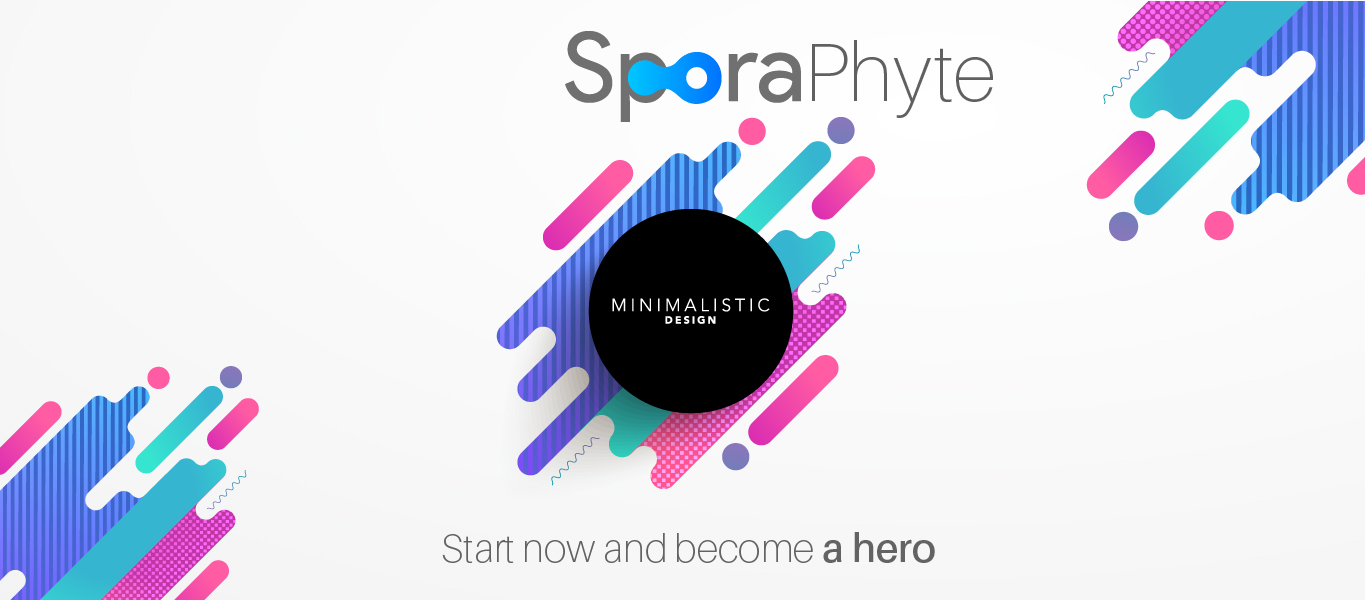
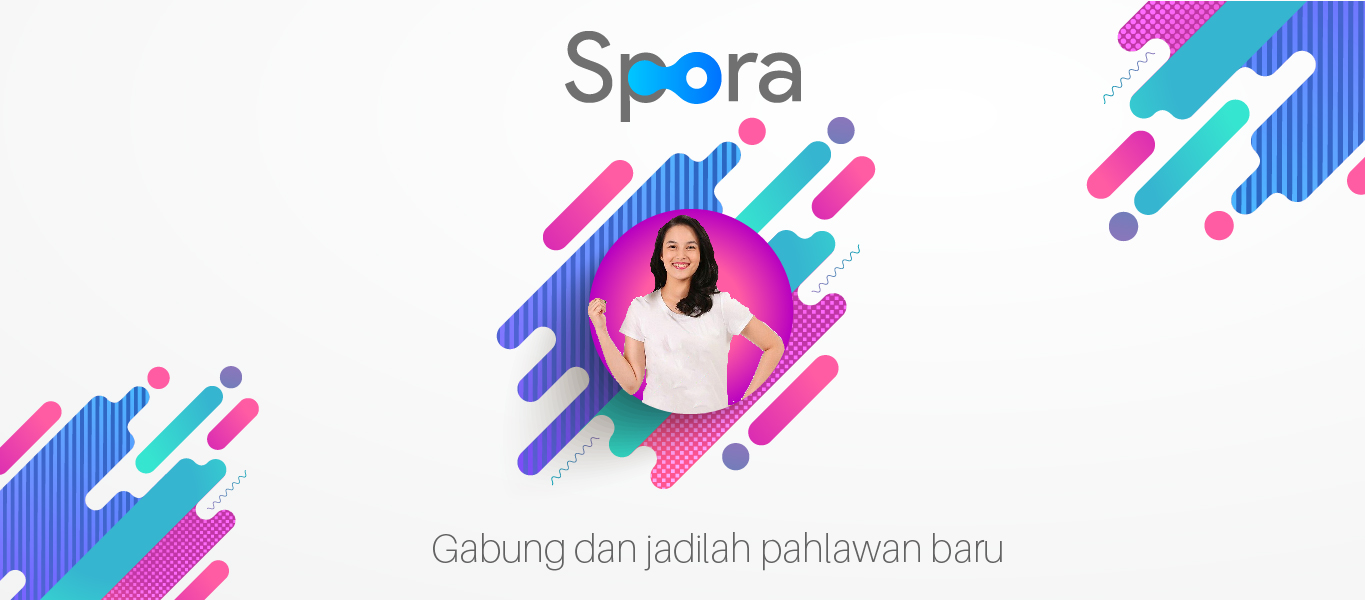
Relawan Page Look done

diff --git a/apz/views/dashboard/user/main.php b/apz/views/dashboard/user/main.php
@@ -6,13 +6,13 @@
 <meta http-equiv="X-UA-Compatible" content="IE=edge">
 <meta name="description" content="Colo Shop Template">
 <meta name="viewport" content="width=device-width, initial-scale=1">
-<link rel="stylesheet" type="text/css" href="<?= base_url() ?>assets/css/coloshop/bootstrap4/bootstrap.min.css">
-<link href="<?= base_url() ?>assets/plugins/font-awesome-4.7.0/css/font-awesome.min.css" rel="stylesheet" type="text/css">
-<link rel="stylesheet" type="text/css" href="<?= base_url() ?>assets/plugins/OwlCarousel2-2.2.1/owl.carousel.css">
-<link rel="stylesheet" type="text/css" href="<?= base_url() ?>assets/plugins/OwlCarousel2-2.2.1/owl.theme.default.css">
-<link rel="stylesheet" type="text/css" href="<?= base_url() ?>assets/plugins/OwlCarousel2-2.2.1/animate.css">
-<link rel="stylesheet" type="text/css" href="<?= base_url() ?>assets/css/coloshop/main_styles.css">
-<link rel="stylesheet" type="text/css" href="<?= base_url() ?>assets/css/coloshop/responsive.css">
+<link rel="stylesheet" type="text/css" href="<?php base_url() ?>assets/css/coloshop/bootstrap4/bootstrap.min.css">
+<link href="<?php base_url() ?>assets/plugins/font-awesome-4.7.0/css/font-awesome.min.css" rel="stylesheet" type="text/css">
+<link rel="stylesheet" type="text/css" href="<?php base_url() ?>assets/plugins/OwlCarousel2-2.2.1/owl.carousel.css">
+<link rel="stylesheet" type="text/css" href="<?php base_url() ?>assets/plugins/OwlCarousel2-2.2.1/owl.theme.default.css">
+<link rel="stylesheet" type="text/css" href="<?php base_url() ?>assets/plugins/OwlCarousel2-2.2.1/animate.css">
+<link rel="stylesheet" type="text/css" href="<?php base_url() ?>assets/css/coloshop/main_styles.css">
+<link rel="stylesheet" type="text/css" href="<?php base_url() ?>assets/css/coloshop/responsive.css">
 </head>
 <body>
 	<div class="super_container">
@@ -23,14 +23,14 @@
 				<div class="row">
 					<div class="col-lg-12 text-right">
 						<div class="logo_container">
-							<img src="<?= base_url();?>assets/img/logo.png" style="">
+							<img src="<?php echo base_url();?>assets/img/logo.png" style="">
 						</div>
 						<nav class="navbar">
 							<ul class="navbar_menu">
-								<li><a href="#">Beranda</a></li>
+								<li><a href="<?= site_url('dashboard'); ?>">Beranda</a></li>
 								<li><a href="#">Toko</a></li>
-								<li><a href="#">Relawan</a></li>
-								<li><a href="contact.html">Tentang</a></li>
+								<li><a href="<?= site_url('proyek'); ?>">Relawan</a></li>
+								<li><a href="#">Tentang</a></li>
 								<li><a href="#"><i class="fa fa-search" aria-hidden="true"></i></a></li>
 								<li class="account">
 									<a href="#"><i class="fa fa-user" style="min-width:30px"></i>&nbsp; Account</a>
@@ -42,7 +42,7 @@
 											<li><a href="<?= site_url('logout'); ?>"><i class="fa fa-sign-out"></i>Keluar</a></li>
 
 										<?php } else { ?>
-										
+
 											<li><a href="<?= site_url('login'); ?>"><i class="fa fa-user-circle"></i>Masuk</a></li>
 											<li><a href="<?= site_url('register'); ?>"><i class="fa fa-sign-out"></i>Daftar</a></li>
 
@@ -70,7 +70,7 @@
 				<li class="menu_item has-children"><a href="#">Akun Saya<i class="fa fa-angle-down"></i></a>
 					<ul class="menu_selection">
 						<?php if($this->session->userdata('login')){ ?>
-							
+
 							<li><a href="<?= site_url('profil'); ?>"><i class="fa fa-user-circle" aria-hidden="true"></i>Profil</a></li>
 							<li><a href="<?= site_url('dashboard'); ?>"><i class="fa fa-dashboard" aria-hidden="true"></i>Dashboard</a></li>
 							<li><a href="<?= site_url('logout'); ?>"><i class="fa fa-sign-out" aria-hidden="true"></i>Keluar</a></li>
@@ -94,14 +94,12 @@
 
 	<!-- Slider -->
 
-	<div class="main_slider" style="background-image:url(<?php echo base_url(); ?>assets/img/carousel1.jpg)">
+	<div class="main_slider" style="background-image:url(<?php echo base_url(); ?>assets/img/carousel1.jpg); margin-top: 50px;">
 		<div class="container fill_height">
 			<div class="row align-items-center fill_height">
 				<div class="col">
 					<div class="main_slider_content">
-						<h6>Spring / Summer Collection 2017</h6>
-						<h1>Get up to 30% Off New Arrivals</h1>
-						<div class="red_button shop_now_button"><a href="#">shop now</a></div>
+
 					</div>
 				</div>
 			</div>
@@ -110,34 +108,6 @@
 
 	<!-- Banner -->
 
-	<div class="banner">
-		<div class="container">
-			<div class="row">
-				<div class="col-md-4">
-					<div class="banner_item align-items-center" style="background-image:url(images/banner_1.jpg)">
-						<div class="banner_category">
-							<a href="categories.html">women's</a>
-						</div>
-					</div>
-				</div>
-				<div class="col-md-4">
-					<div class="banner_item align-items-center" style="background-image:url(images/banner_2.jpg)">
-						<div class="banner_category">
-							<a href="categories.html">accessories's</a>
-						</div>
-					</div>
-				</div>
-				<div class="col-md-4">
-					<div class="banner_item align-items-center" style="background-image:url(images/banner_3.jpg)">
-						<div class="banner_category">
-							<a href="categories.html">men's</a>
-						</div>
-					</div>
-				</div>
-			</div>
-		</div>
-	</div>
-
 	<!-- New Arrivals -->
 
 	<div class="new_arrivals">
@@ -145,7 +115,7 @@
 			<div class="row">
 				<div class="col text-center">
 					<div class="section_title new_arrivals_title">
-						<h2>New Arrivals</h2>
+						<h2>Baru</h2>
 					</div>
 				</div>
 			</div>
@@ -342,7 +312,7 @@
 			<div class="row align-items-center">
 				<div class="col-lg-6">
 					<div class="deal_ofthe_week_img">
-						<img src="<?php echo base_url();?>assets/img/carousel2.jpg" alt="">
+						<img src="<?php echo base_url();?>assets/img/backgroundPromo-01.jpg" alt="">
 					</div>
 				</div>
 				<div class="col-lg-6 text-right deal_ofthe_week_col">
@@ -382,7 +352,7 @@
 			<div class="row">
 				<div class="col text-center">
 					<div class="section_title new_arrivals_title">
-						<h2>Best Sellers</h2>
+						<h2>Penjualan Terlaris</h2>
 					</div>
 				</div>
 			</div>
@@ -590,8 +560,8 @@
 					<div class="benefit_item d-flex flex-row align-items-center">
 						<div class="benefit_icon"><i class="fa fa-truck" aria-hidden="true"></i></div>
 						<div class="benefit_content">
-							<h6>free shipping</h6>
-							<p>Suffered Alteration in Some Form</p>
+							<h6>Bebas biaya pengiriman</h6>
+							<p>Seluruh pengi</p>
 						</div>
 					</div>
 				</div>
@@ -599,8 +569,8 @@
 					<div class="benefit_item d-flex flex-row align-items-center">
 						<div class="benefit_icon"><i class="fa fa-money" aria-hidden="true"></i></div>
 						<div class="benefit_content">
-							<h6>cach on delivery</h6>
-							<p>The Internet Tend To Repeat</p>
+							<h6>Full Diskon</h6>
+							<p>Dapatkan banyak promo dan diskon</p>
 						</div>
 					</div>
 				</div>
@@ -608,8 +578,8 @@
 					<div class="benefit_item d-flex flex-row align-items-center">
 						<div class="benefit_icon"><i class="fa fa-undo" aria-hidden="true"></i></div>
 						<div class="benefit_content">
-							<h6>45 days return</h6>
-							<p>Making it Look Like Readable</p>
+							<h6>Garansi 1 minggu</h6>
+							<p>Apabila barang rusak dapat diganti</p>
 						</div>
 					</div>
 				</div>
@@ -617,7 +587,7 @@
 					<div class="benefit_item d-flex flex-row align-items-center">
 						<div class="benefit_icon"><i class="fa fa-clock-o" aria-hidden="true"></i></div>
 						<div class="benefit_content">
-							<h6>opening all week</h6>
+							<h6>Layanan Setiap Hari</h6>
 							<p>8AM - 09PM</p>
 						</div>
 					</div>
@@ -633,7 +603,7 @@
 			<div class="row">
 				<div class="col text-center">
 					<div class="section_title">
-						<h2>Latest Blogs</h2>
+						<h2>Jadilah Relawan Spora</h2>
 					</div>
 				</div>
 			</div>
@@ -674,26 +644,6 @@
 
 	<!-- Newsletter -->
 
-	<div class="newsletter">
-		<div class="container">
-			<div class="row">
-				<div class="col-lg-6">
-					<div class="newsletter_text d-flex flex-column justify-content-center align-items-lg-start align-items-md-center text-center">
-						<h4>Newsletter</h4>
-						<p>Subscribe to our newsletter and get 20% off your first purchase</p>
-					</div>
-				</div>
-				<div class="col-lg-6">
-					<form action="post">
-						<div class="newsletter_form d-flex flex-md-row flex-column flex-xs-column align-items-center justify-content-lg-end justify-content-center">
-							<input id="newsletter_email" type="email" placeholder="Your email" required="required" data-error="Valid email is required.">
-							<button id="newsletter_submit" type="submit" class="newsletter_submit_btn trans_300" value="Submit">subscribe</button>
-						</div>
-					</form>
-				</div>
-			</div>
-		</div>
-	</div>
 
 	<!-- Footer -->
 
@@ -724,7 +674,7 @@
 			<div class="row">
 				<div class="col-lg-12">
 					<div class="footer_nav_container">
-						<div class="cr">©2018 All Rights Reserverd. This template is made with <i class="fa fa-heart-o" aria-hidden="true"></i> by <a href="#">Colorlib</a></div>
+						<div class="cr">© <?php echo date('Y'); ?> All Rights Reserverd.</div>
 					</div>
 				</div>
 			</div>
@@ -733,13 +683,13 @@
 
 </div>
 
-<script src="<?= base_url(); ?>assets/js/coloshop/jquery-3.2.1.min.js"></script>
-<script src="<?= base_url(); ?>assets/css/coloshop/bootstrap4/popper.js"></script>
-<script src="<?= base_url(); ?>assets/css/coloshop/bootstrap4/bootstrap.min.js"></script>
-<script src="<?= base_url(); ?>assets/plugins/Isotope/isotope.pkgd.min.js"></script>
-<script src="<?= base_url(); ?>assets/plugins/OwlCarousel2-2.2.1/owl.carousel.js"></script>
-<script src="<?= base_url(); ?>assets/plugins/easing/easing.js"></script>
-<script src="<?= base_url(); ?>assets/js/coloshop/custom.js"></script>
+<script src="<?php echo base_url(); ?>assets/js/coloshop/jquery-3.2.1.min.js"></script>
+<script src="<?php echo base_url(); ?>assets/css/coloshop/bootstrap4/popper.js"></script>
+<script src="<?php echo base_url(); ?>assets/css/coloshop/bootstrap4/bootstrap.min.js"></script>
+<script src="<?php echo base_url(); ?>assets/plugins/Isotope/isotope.pkgd.min.js"></script>
+<script src="<?php echo base_url(); ?>assets/plugins/OwlCarousel2-2.2.1/owl.carousel.js"></script>
+<script src="<?php echo base_url(); ?>assets/plugins/easing/easing.js"></script>
+<script src="<?php echo base_url(); ?>assets/js/coloshop/custom.js"></script>
 </body>
 
 </html>

diff --git a/apz/views/landing.php b/apz/views/landing.php
@@ -27,7 +27,7 @@
 						</div>
 						<nav class="navbar">
 							<ul class="navbar_menu">
-								<li><a href="#">Beranda</a></li>
+								<li><a href="<?= site_url('dashboard'); ?>">Beranda</a></li>
 								<li><a href="#">Toko</a></li>
 								<li><a href="<?= site_url('proyek'); ?>">Relawan</a></li>
 								<li><a href="#">Tentang</a></li>
@@ -42,7 +42,7 @@
 											<li><a href="<?= site_url('logout'); ?>"><i class="fa fa-sign-out"></i>Keluar</a></li>
 
 										<?php } else { ?>
-										
+
 											<li><a href="<?= site_url('login'); ?>"><i class="fa fa-user-circle"></i>Masuk</a></li>
 											<li><a href="<?= site_url('register'); ?>"><i class="fa fa-sign-out"></i>Daftar</a></li>
 
@@ -70,7 +70,7 @@
 				<li class="menu_item has-children"><a href="#">Akun Saya<i class="fa fa-angle-down"></i></a>
 					<ul class="menu_selection">
 						<?php if($this->session->userdata('login')){ ?>
-							
+
 							<li><a href="<?= site_url('profil'); ?>"><i class="fa fa-user-circle" aria-hidden="true"></i>Profil</a></li>
 							<li><a href="<?= site_url('dashboard'); ?>"><i class="fa fa-dashboard" aria-hidden="true"></i>Dashboard</a></li>
 							<li><a href="<?= site_url('logout'); ?>"><i class="fa fa-sign-out" aria-hidden="true"></i>Keluar</a></li>
@@ -610,7 +610,7 @@
 			<div class="row blogs_container">
 				<div class="col-lg-4 blog_item_col">
 					<div class="blog_item">
-						<div class="blog_background" style="background-image:url(<?php echo base_url()?>assets/img/carousel3.jpg)"></div>
+						<div class="blog_background" style="background-image:url(<?php echo base_url()?>assets/img/project1.jpg)"></div>
 						<div class="blog_content d-flex flex-column align-items-center justify-content-center text-center">
 							<h4 class="blog_title">Here are the trends I see coming this fall</h4>
 							<span class="blog_meta">by admin | dec 01, 2017</span>
@@ -620,7 +620,7 @@
 				</div>
 				<div class="col-lg-4 blog_item_col">
 					<div class="blog_item">
-						<div class="blog_background" style="background-image:url(<?php echo base_url()?>assets/img/carousel3.jpg)"></div>
+						<div class="blog_background" style="background-image:url(<?php echo base_url()?>assets/img/project2.jpg)"></div>
 						<div class="blog_content d-flex flex-column align-items-center justify-content-center text-center">
 							<h4 class="blog_title">Here are the trends I see coming this fall</h4>
 							<span class="blog_meta">by admin | dec 01, 2017</span>
@@ -630,7 +630,7 @@
 				</div>
 				<div class="col-lg-4 blog_item_col">
 					<div class="blog_item">
-						<div class="blog_background" style="background-image:url(<?php echo base_url()?>assets/img/carousel3.jpg)"></div>
+						<div class="blog_background" style="background-image:url(<?php echo base_url()?>assets/img/project3.jpg)"></div>
 						<div class="blog_content d-flex flex-column align-items-center justify-content-center text-center">
 							<h4 class="blog_title">Here are the trends I see coming this fall</h4>
 							<span class="blog_meta">by admin | dec 01, 2017</span>

diff --git a/apz/views/template/main.php b/apz/views/template/main.php
@@ -27,9 +27,9 @@
             </div>
             <nav class="navbar">
               <ul class="navbar_menu">
-                <li><a href="#">Beranda</a></li>
+                <li><a href="<?php echo base_url('dashboard'); ?>">Beranda</a></li>
                 <li><a href="#">Toko</a></li>
-                <li><a href="#">Relawan</a></li>
+                <li><a href="<?php echo base_url('proyek'); ?>">Relawan</a></li>
                 <li><a href="contact.html">Tentang</a></li>
                 <li><a href="#"><i class="fa fa-search" aria-hidden="true"></i></a></li>
                 <li class="account">
@@ -42,7 +42,7 @@
                       <li><a href="<?= site_url('logout'); ?>"><i class="fa fa-sign-out"></i>Keluar</a></li>
 
                     <?php } else { ?>
-                    
+
                       <li><a href="<?= site_url('login'); ?>"><i class="fa fa-user-circle"></i>Masuk</a></li>
                       <li><a href="<?= site_url('register'); ?>"><i class="fa fa-sign-out"></i>Daftar</a></li>
 
@@ -70,7 +70,7 @@
         <li class="menu_item has-children"><a href="#">Akun Saya<i class="fa fa-angle-down"></i></a>
           <ul class="menu_selection">
             <?php if($this->session->userdata('login')){ ?>
-              
+
               <li><a href="<?= site_url('profil'); ?>"><i class="fa fa-user-circle" aria-hidden="true"></i>Profil</a></li>
               <li><a href="<?= site_url('dashboard'); ?>"><i class="fa fa-dashboard" aria-hidden="true"></i>Dashboard</a></li>
               <li><a href="<?= site_url('logout'); ?>"><i class="fa fa-sign-out" aria-hidden="true"></i>Keluar</a></li>
@@ -84,7 +84,7 @@
 
           </ul>
         </li>
-        <li><a href="#">Beranda</a></li>
+        <li><a href="<?php echo base_url('dashboard');?>">Beranda</a></li>
         <li><a href="#">Toko</a></li>
         <li><a href="#">Relawan</a></li>
         <li><a href="#">Tentang</a></li>
@@ -94,7 +94,7 @@
 
   <!-- Slider -->
 
-  <div class="main_slider" style="background-image:url(<?php echo base_url(); ?>assets/img/carousel1.jpg); margin-top: 50px;">
+  <div class="main_slider" style="background-image:url(<?php echo base_url(); ?>assets/img/carousel<?php echo(rand(1,3));  ?>.jpg); margin-top: 50px;">
     <div class="container fill_height">
       <div class="row align-items-center fill_height">
         <div class="col">

diff --git a/apz/views/project/main.php b/apz/views/project/main.php
@@ -10,7 +10,7 @@
     <div class="row blogs_container">
       <div class="col-lg-4 blog_item_col">
         <div class="blog_item">
-          <div class="blog_background" style="background-image:url(<?php echo base_url()?>assets/img/carousel3.jpg)"></div>
+          <div class="blog_background" style="background-image:url(<?php echo base_url()?>assets/img/project1.jpg)"></div>
           <div class="blog_content d-flex flex-column align-items-center justify-content-center text-center">
             <h4 class="blog_title">Karya Seni Gunung Brintik</h4>
             <span class="blog_meta">Semarang | 21 APRIL 2018</span>
@@ -21,7 +21,7 @@
 
       <div class="col-lg-4 blog_item_col">
         <div class="blog_item">
-          <div class="blog_background" style="background-image:url(<?php echo base_url()?>assets/img/carousel3.jpg)"></div>
+          <div class="blog_background" style="background-image:url(<?php echo base_url()?>assets/img/project2.jpg)"></div>
           <div class="blog_content d-flex flex-column align-items-center justify-content-center text-center">
             <h4 class="blog_title">Karya Seni Gunung Slamet</h4>
             <span class="blog_meta">Tegal | 29 APRIL 2018</span>
@@ -32,7 +32,7 @@
 
       <div class="col-lg-4 blog_item_col">
         <div class="blog_item">
-          <div class="blog_background" style="background-image:url(<?php echo base_url()?>assets/img/carousel3.jpg)"></div>
+          <div class="blog_background" style="background-image:url(<?php echo base_url()?>assets/img/project3.jpg)"></div>
           <div class="blog_content d-flex flex-column align-items-center justify-content-center text-center">
             <h4 class="blog_title">Karya Seni Gunung Sindoro</h4>
             <span class="blog_meta">Temanggung | 01 MEI 2018</span>
@@ -41,7 +41,7 @@
         </div>
       </div>
     </div>
-      
+
     <div class="row blogs_container">
       <div class="col-lg-4 blog_item_col">
         <div class="blog_item">
